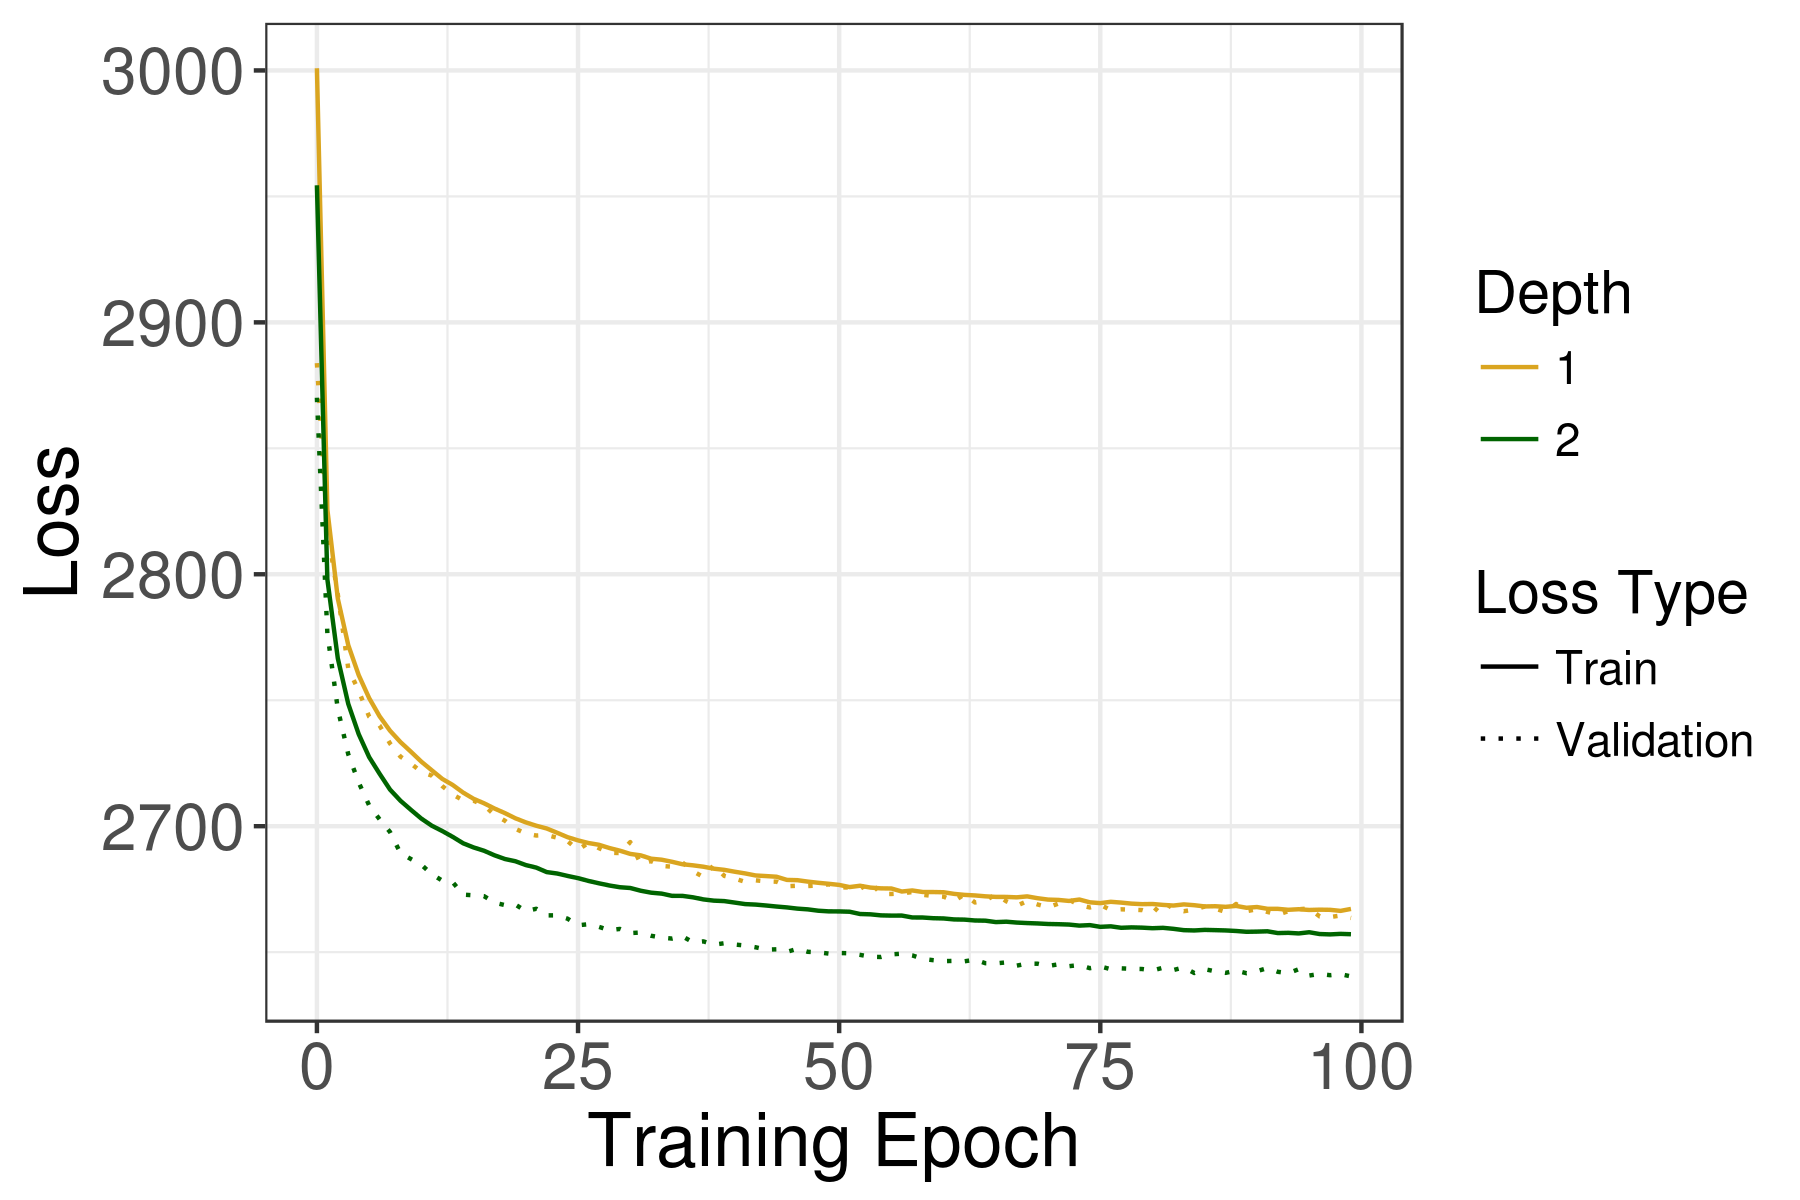
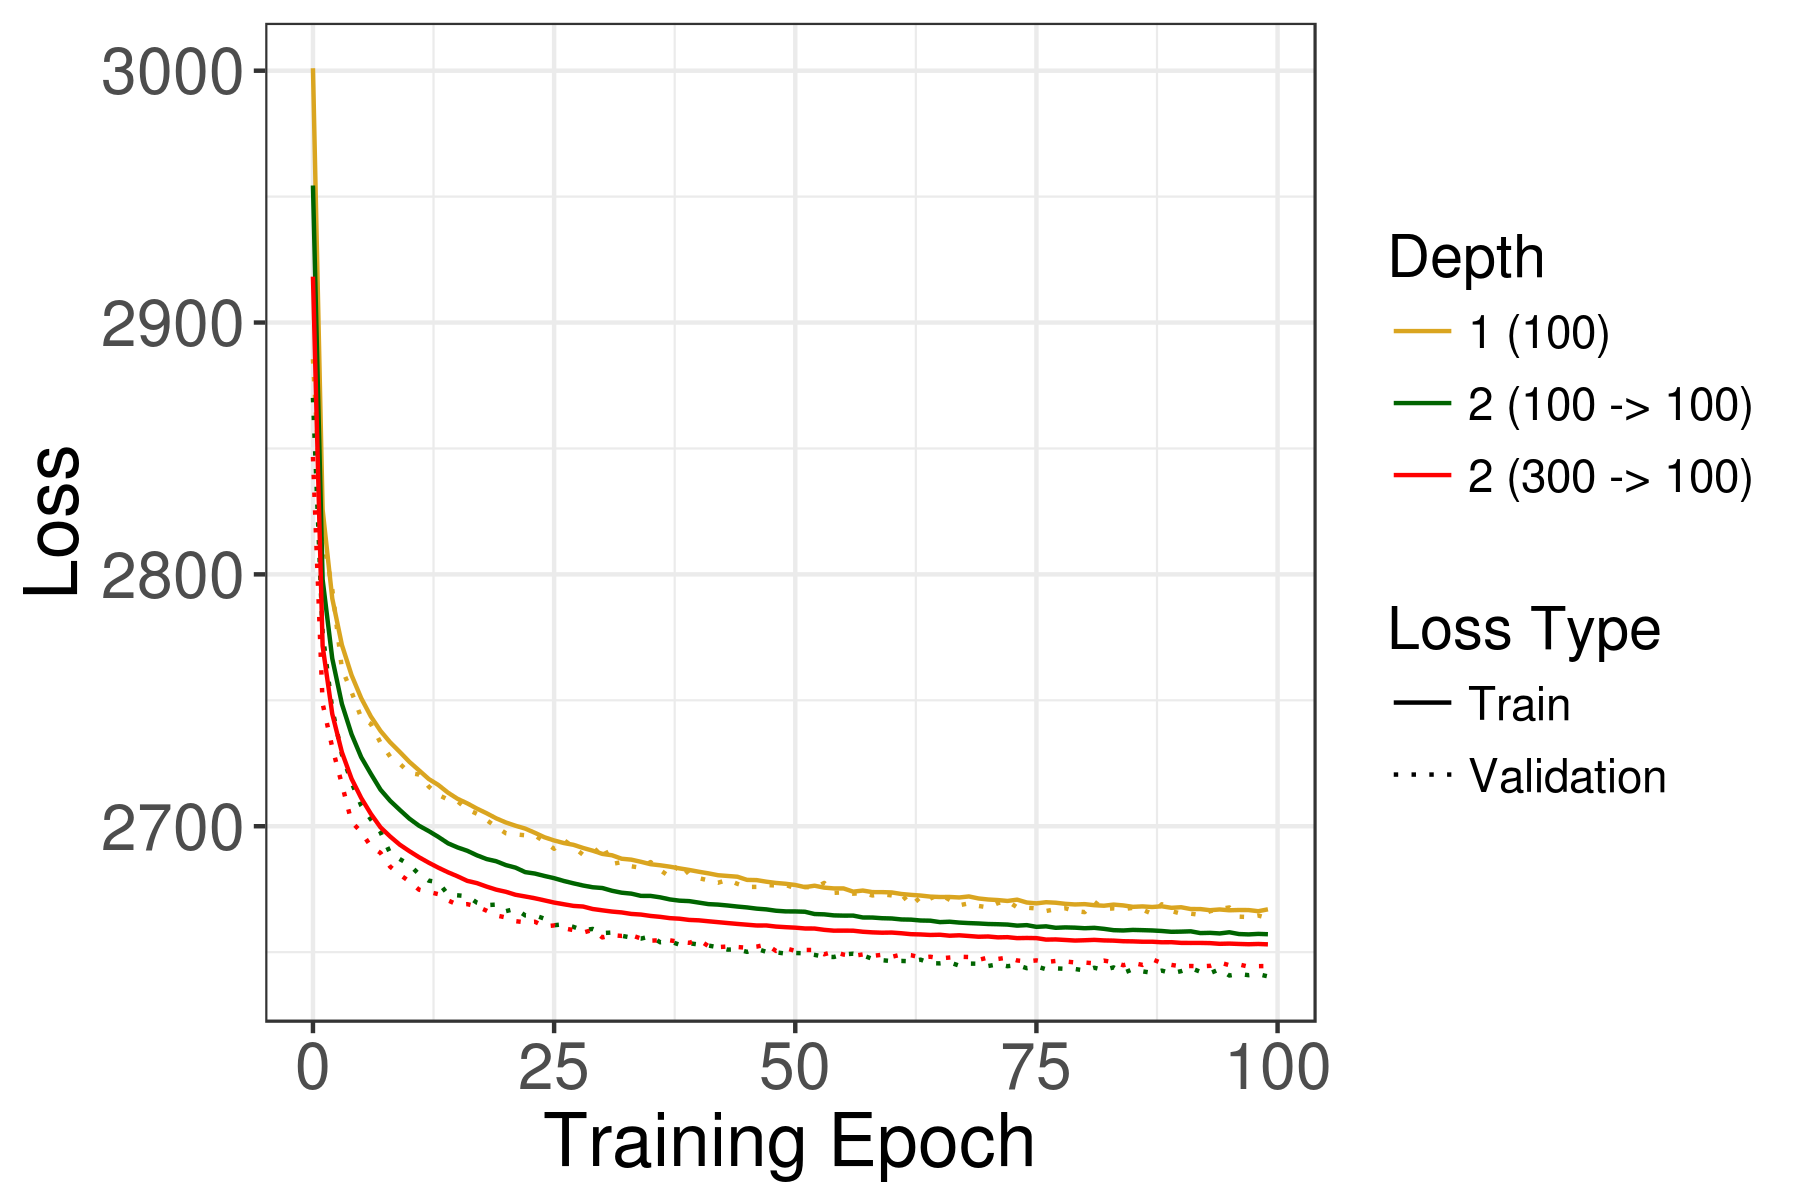
Add Parameter Sweep Figures and Logic from 300 feature model (#77)
* add parameter sweep results for two hidden (300 dim hidden)

* add git lfs tracked file of two hidden (300 dim) parameter sweep results

* add 300 architecture and refactor finding best model

* updating best model comparison figure

addition of 300 node model

* update parameter sweep markdown file

* add all 300 feature parameter sweep figures

diff --git a/parameter_sweep.md b/parameter_sweep.md
@@ -4,12 +4,14 @@
 
 ## Parameter Sweep
 
-We performed a parameter sweep for two distinct architectures:
+We performed a parameter sweep for three distinct architectures:
 
 1. Compression with one hidden layer into 100 features
   - 5000 -> 100 -> 5000
 2. Compression with two hidden layers into 100 hidden units and 100 features
   - 5000 -> 100 -> 100 -> 100 -> 5000
+3. Compression with two hidden layers into 300 hidden units and 100 features
+  - 5000 -> 300 -> 100 -> 300 -> 500
 
 ### One Hidden Layer
 
@@ -49,10 +51,15 @@ Again, training was relatively stable with comparable performance over a large g
 With two layers, `kappa` made a larger difference. The burn in `kappa` period actually
 penalized model performance, with `kappa` < 1 having consistently worse performance.
 
+We also trained a model with an alternative two layer architecture with 300 hidden features.
+
 ### Comparison
 
-Two hidden layers does not improve performance as much as initially thought. Observed
-below are the two optimal models described above.
+Two hidden layers does not improve performance as much as initially thought. There is also
+not much benefit in 2 compression layers. Observed below are the three optimal models
+described above.
 
 ![compare](figures/param_sweep/best_model_comparisons.png?raw=true)
+
+We have yet to perform comparisons in regards to the biology learned by each model.
 
